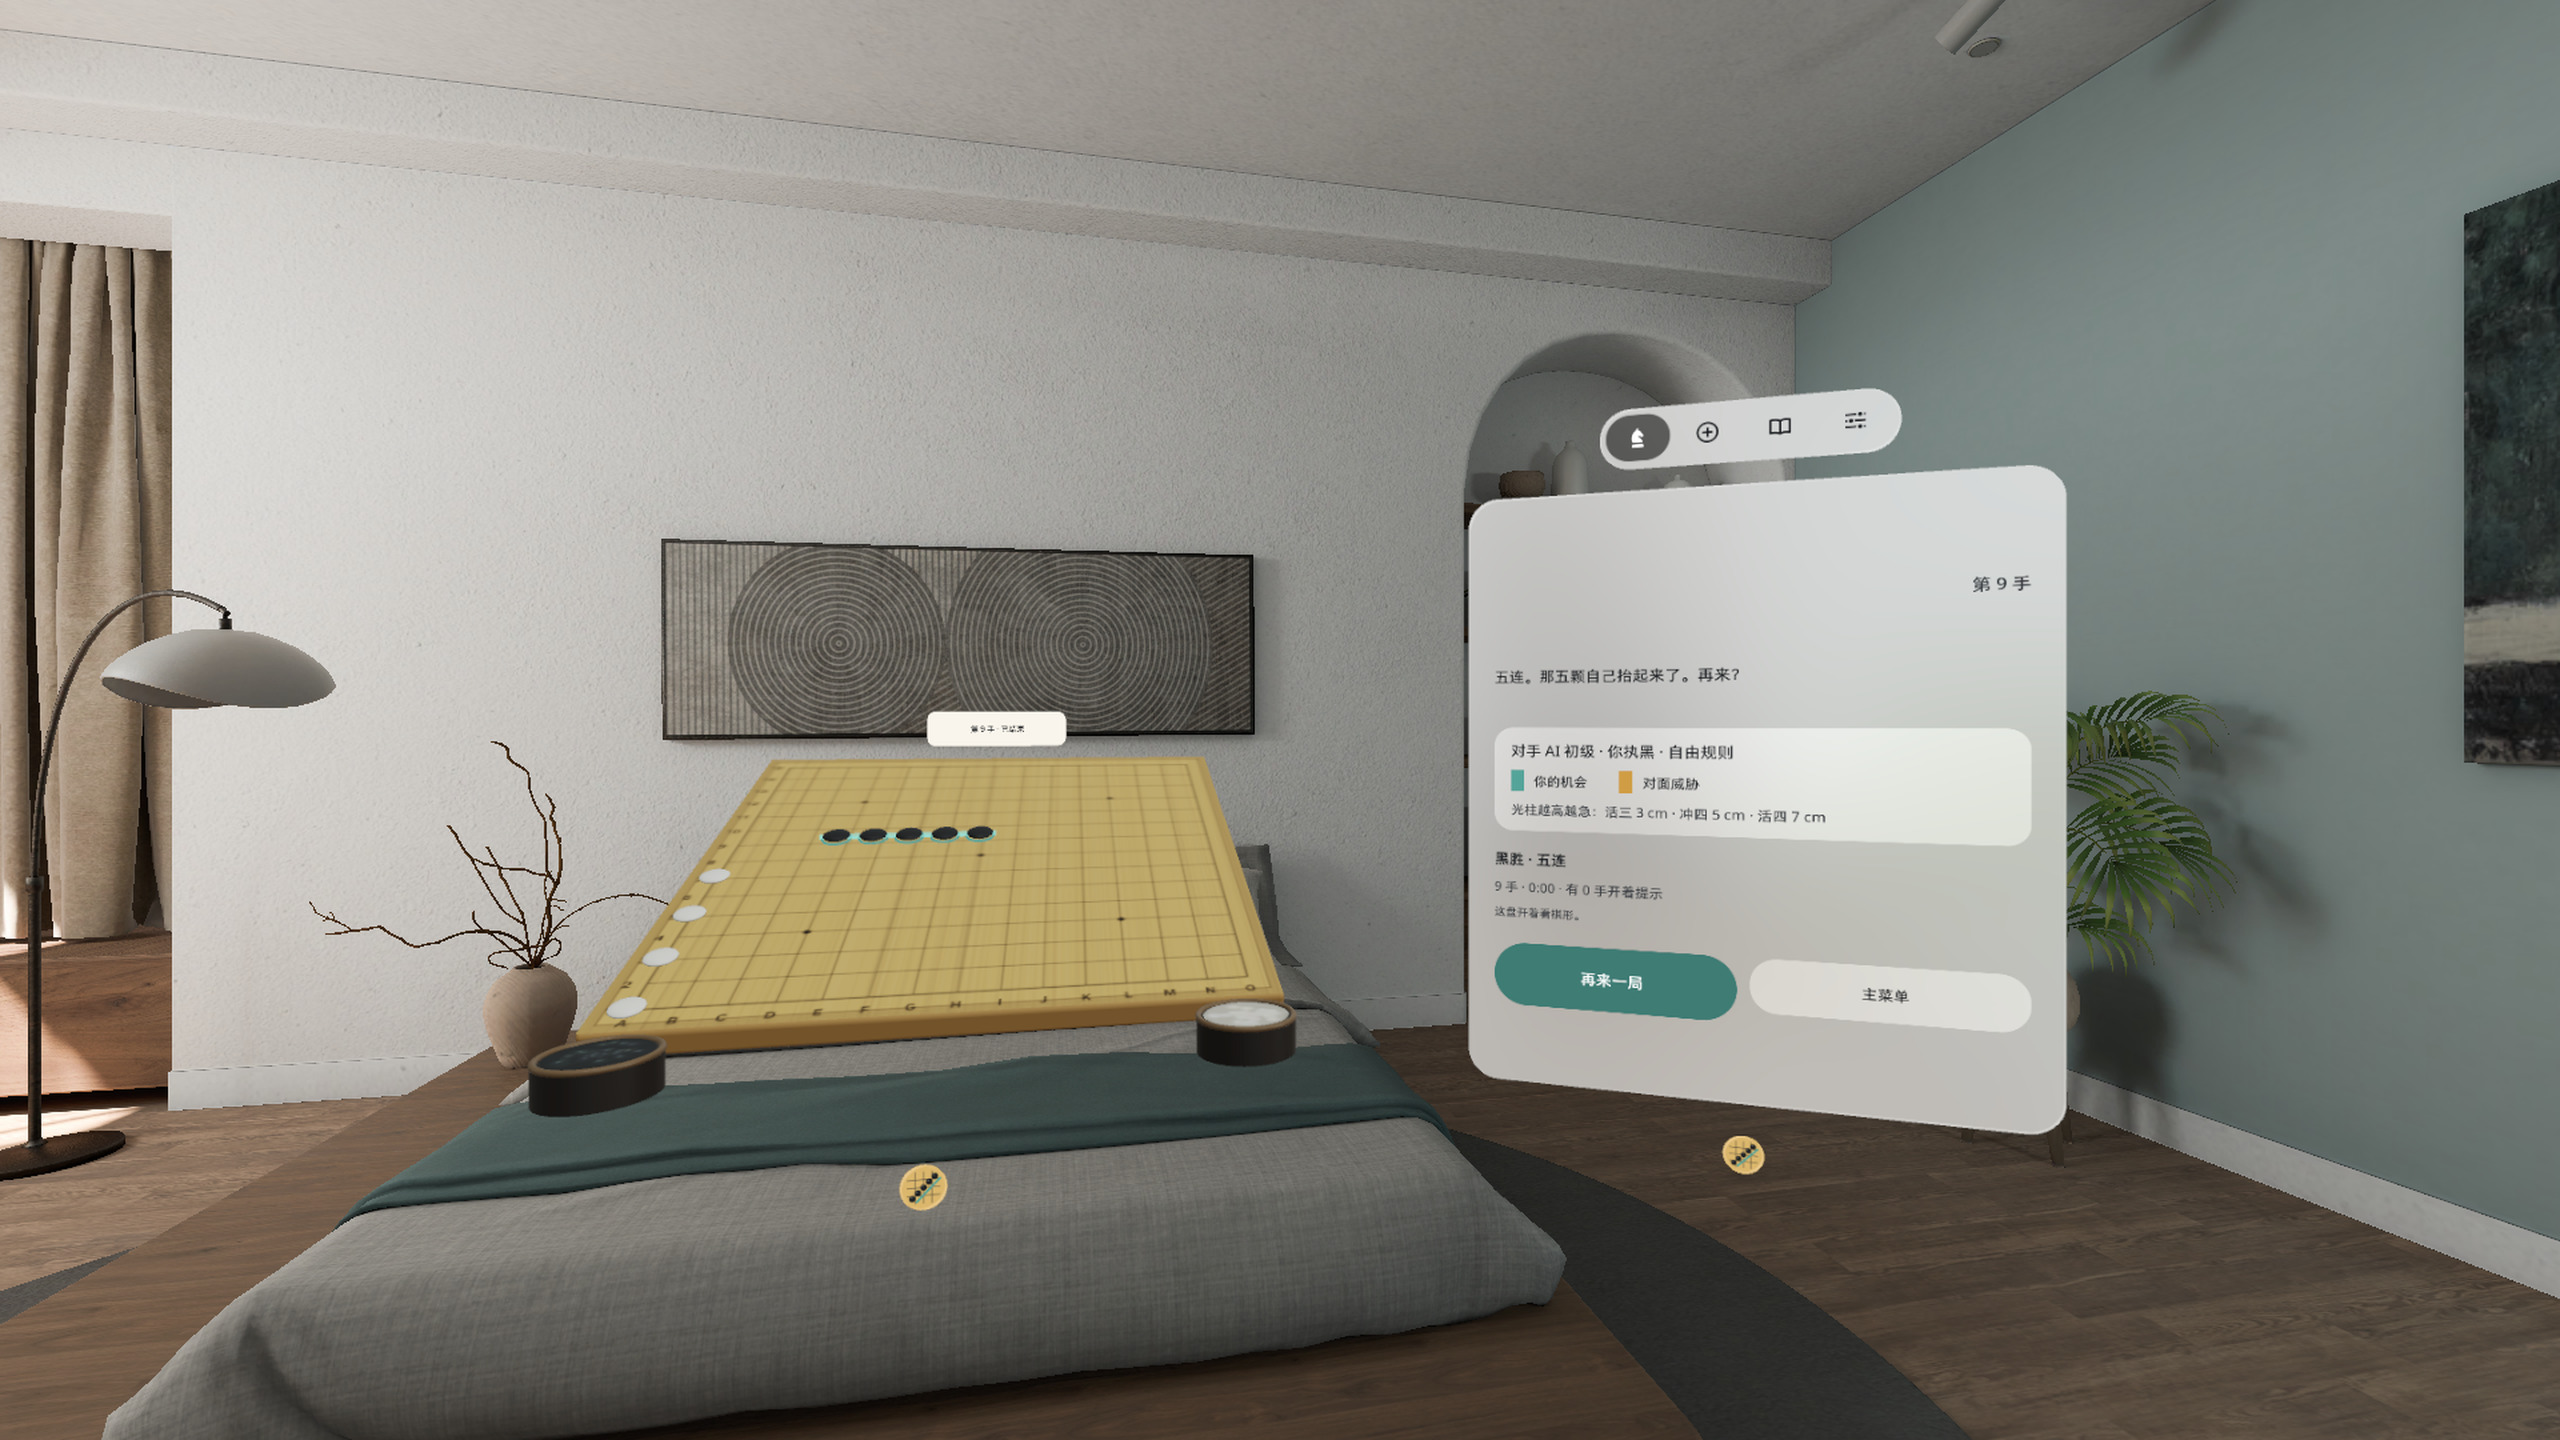
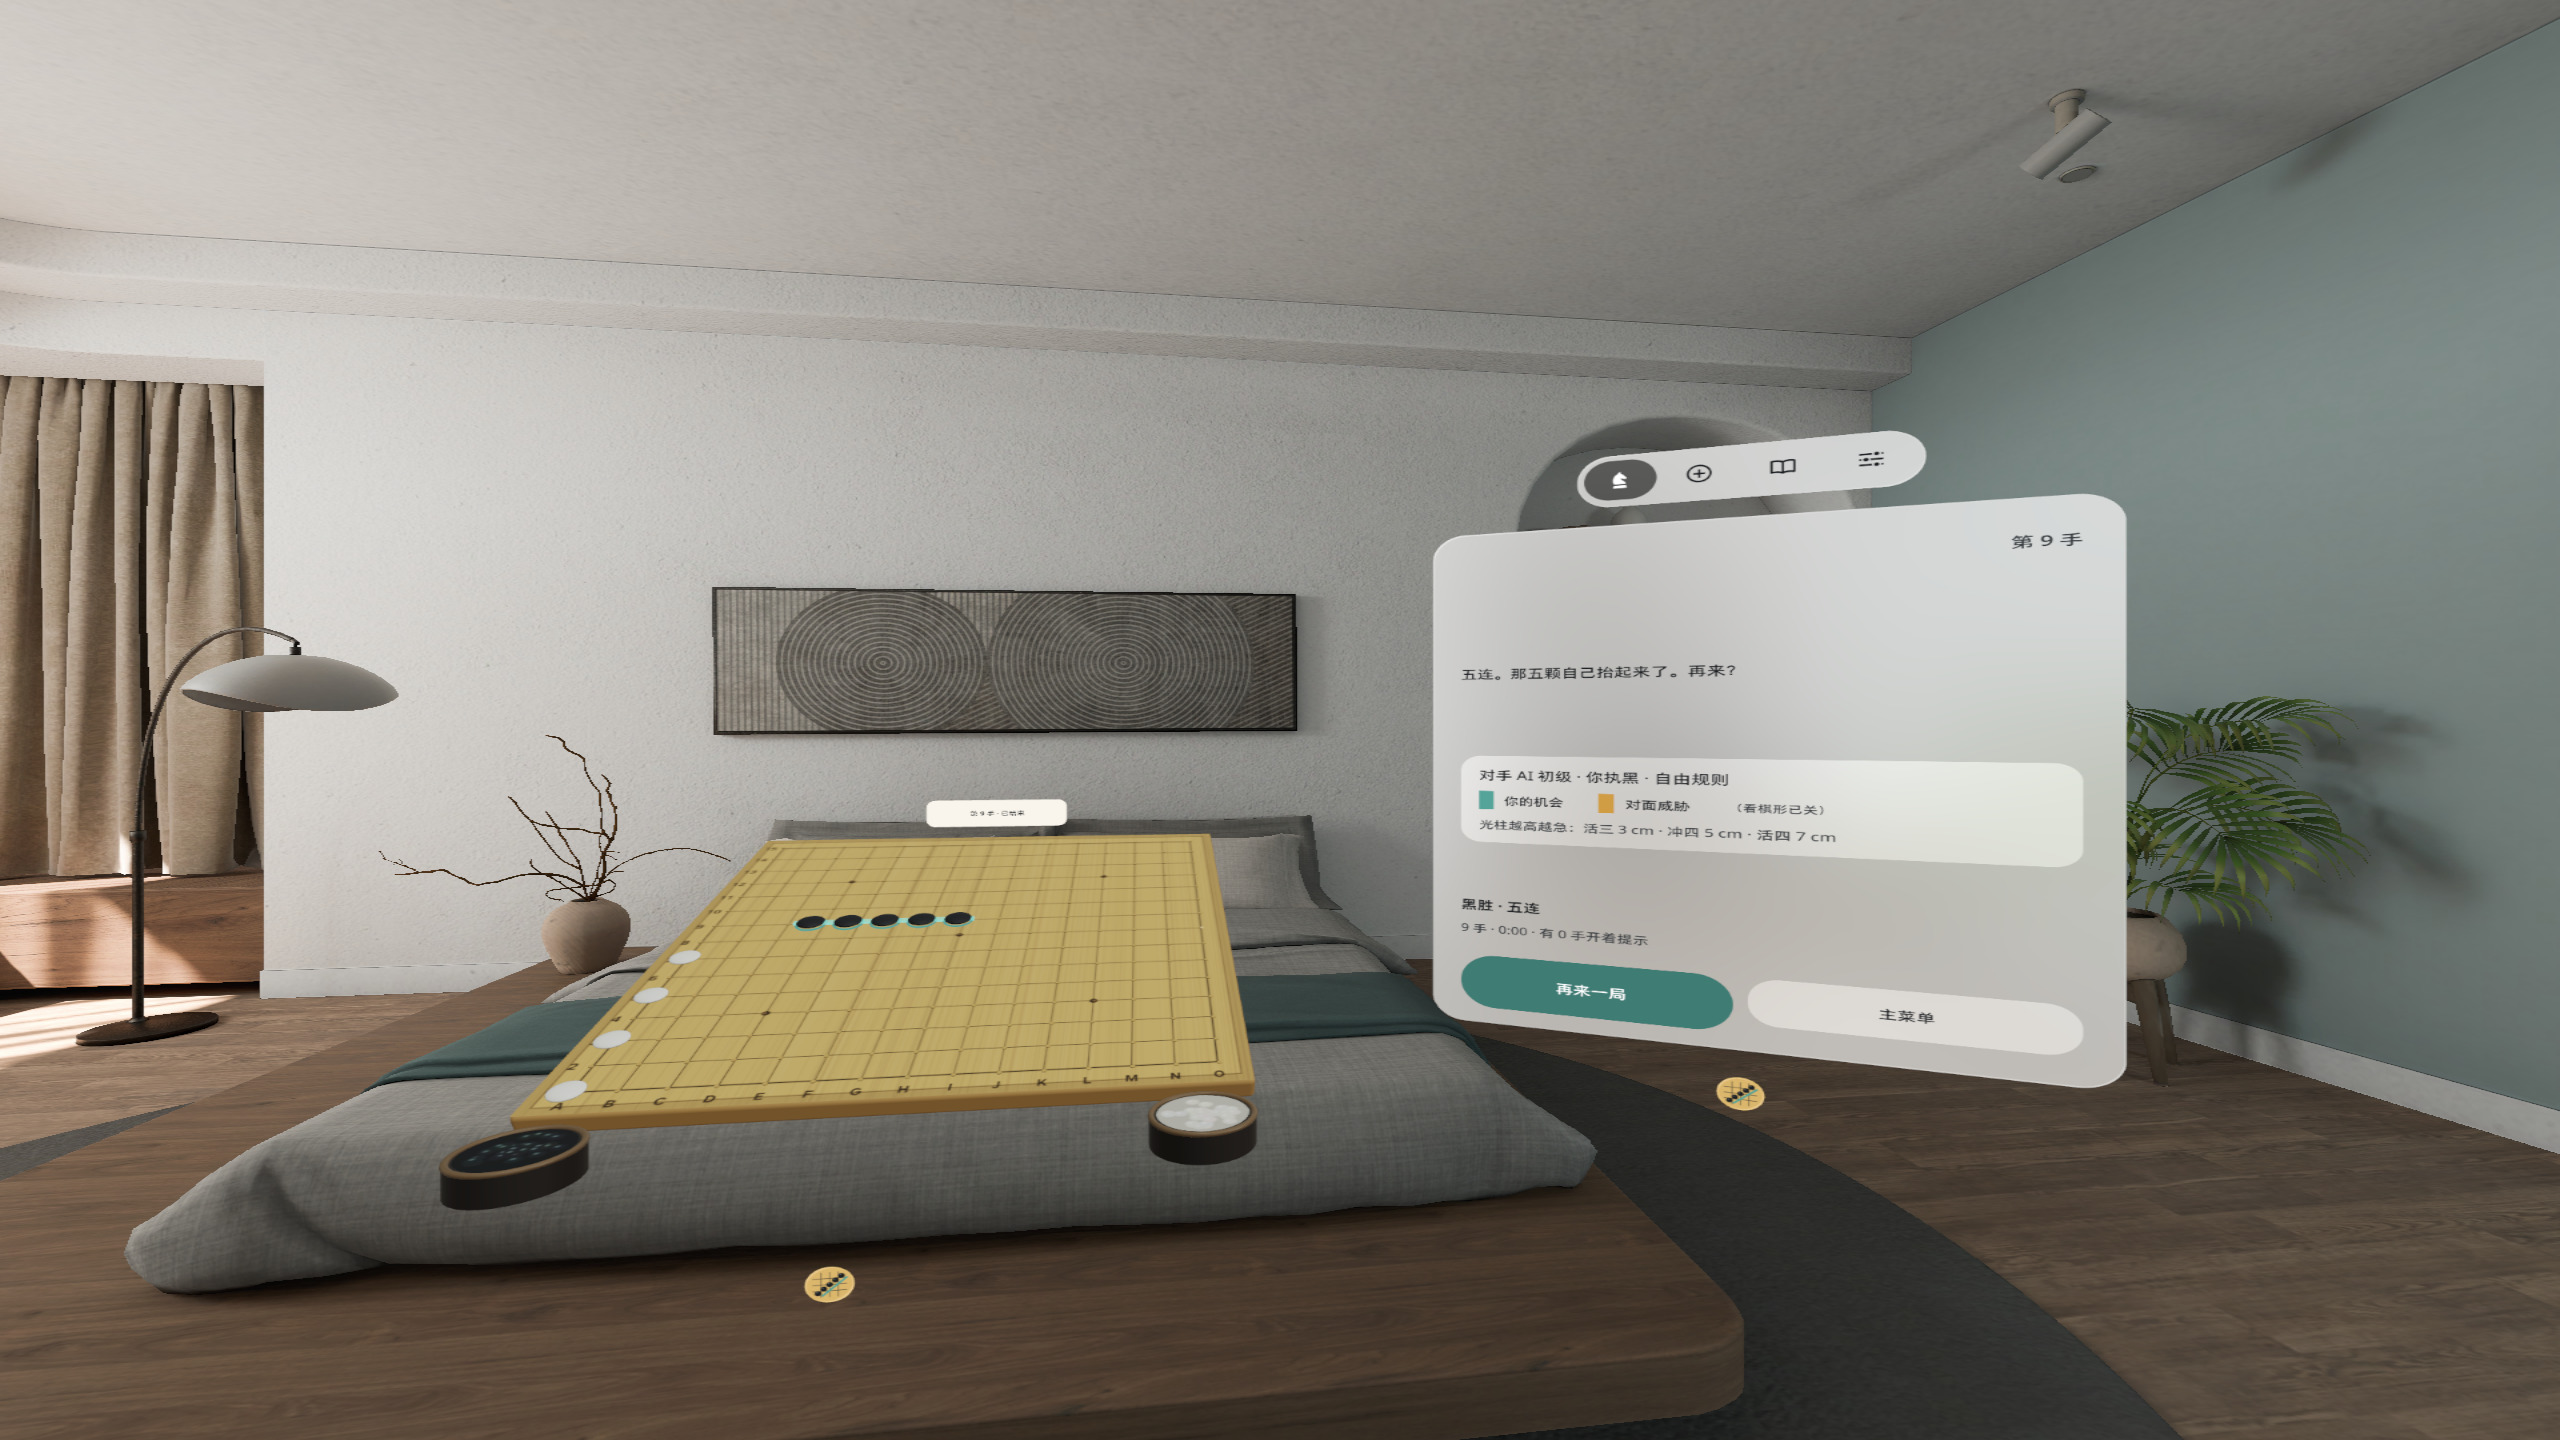
v0.1.5: bilingual README and screenshots for the patch release

diff --git a/README.md b/README.md
@@ -4,16 +4,17 @@
 
 **中文** · [English](#english)
 
-一张 0.70 米的 15 路榧木棋盘摆在你面前的桌上，左右两罐云子。看向哪个交叉点，那里就出现一颗半透明的虚子；捏一下，棋子从罐里沿弧线飞过去落下。五颗连上，那五颗一起抬起来发光。
+一张 0.70 米的 15 路榧木棋盘摆在你面前的桌上，左右两罐云子。每个交叉点都有一颗 5 毫米的小圆点，看向哪个点（或用手、手柄指向），那里就高亮并出现一颗半透明的虚子；捏一下，棋子从罐里沿弧线飞过去「嗒」地落下。五颗连上，那五颗一起抬起来发光。
 
 - 人机对战：入门 / 初级 / 中级 / 高级 / 大师五档 AI，全部在本机计算；也可以双人同机轮流下
 - 自由规则或禁手（三三、四四、长连，简化判定）随时切换
 - 「看棋形」：活三、冲四、活四在盘上立起高低不同的光柱，青色是你的机会，琥珀色是对面的威胁
 - 落子后 0.5 秒内再点一下可撤回，另有悔一步、给个提示
-- 控制窗是系统原生页签：对局 / 新局 / 规则 / 设置；棋盘倾角、大小可调；中途退出自动保存
-- 手势捏合 + 手柄射线；中英双语；全部离线，不联网、不需要账号
+- 控制窗是系统原生页签：对局 / 新局 / 规则 / 设置；棋盘倾角 0° / 20° / 30° / 45° / 60° / 90° 六档、大小 100% / 110% 可调；中途退出自动保存
+- 落子声是真实的石子落木录音（CC0），清脆不吵
+- 眼手、手势射线、手柄射线三种输入；中英双语；全部离线，不联网、不需要账号
 
-当前版本 **v0.1.3**，PICO OS 6（Android 15，minSdk 35），PICO Spatial SDK 6.1.9。
+当前版本 **v0.1.5**，PICO OS 6（Android 15，minSdk 35），PICO Spatial SDK 6.1.9。
 
 ### 截图
 
@@ -21,20 +22,20 @@
 
 | | |
 |---|---|
-| ![](docs/shot-01.jpg) 中级 AI 在想，「看棋形」光柱标出双方的活三和冲四 | ![](docs/shot-02.jpg) 对局中：棋盘和右侧的控制窗 |
+| ![](docs/shot-01.jpg) 中级 AI 在想，「看棋形」光柱标出双方的活三和冲四 | ![](docs/shot-02.jpg) 看哪儿落哪儿：视线停在 F10，出现半透明虚子 |
 | ![](docs/shot-03.jpg) 禁手开着：黑棋点在三三点上，红 ✕ 提示原因 | ![](docs/shot-04.jpg) 五连：五颗棋子抬起发光，再来一局 |
-| ![](docs/shot-05.jpg) 新局：人机 / 双人、执子、五档难度、规则 | ![](docs/shot-06.jpg) 规则 · 怎么下：小棋盘图示棋形 |
+| ![](docs/shot-05.jpg) 新局：人机 / 双人、执子、五档难度、规则 | ![](docs/shot-06.jpg) 设置：棋盘倾角六档（图为 45°） |
 
 ### 安装
 
 从 [Releases](https://github.com/kejing-dev/FiveStones/releases) 下载 APK，接上头显后：
 
 ```bash
-adb install -r FiveStones-v0.1.3-debug.apk
+adb install -r FiveStones-v0.1.5-debug.apk
 pico-cli app launch io.embodit.fivestones
 ```
 
-Release 里另有 `FiveStones-v0.1.3.apk`（`assembleRelease` 未签名包，给应用商店上架用，需要先签名才能 `adb install`）。
+Release 里另有 `FiveStones-v0.1.5.apk`（`assembleRelease` 未签名包，给应用商店上架用，需要先签名才能 `adb install`）。
 
 ### 自己构建
 
@@ -45,13 +46,19 @@ export JAVA_HOME=<JDK 17+>
 
 结构、调试广播和状态清单见 [AGENTS.md](AGENTS.md)。
 
-### 已知问题（v0.1.3）
+### v0.1.5 相对 v0.1.3 的变化
 
-- 规则页、认输确认页内容偏少，窗内空白偏大
+- 225 个交叉点都有 5 毫米小圆点（只比盘面高半档），眼手 / 手 / 手柄指到哪个点，系统高亮就落在哪，捏一下就下在那里
+- 落子声换成干净的 CC0 石子落木录音（降噪，只留 120 Hz–6 kHz，不加厚不加余响）
+- 棋盘倾角六档 0° / 20° / 30° / 45° / 60° / 90°，竖起时棋盘稍架高，两罐不挡近边
+- 规则页、认输确认页不再留大块空白
+
+### 已知问题（v0.1.5）
+
+- 落子声偏轻（为了干净没做压缩）
 - AI 高级档对中级档的强度差距偏小（不同随机种子下胜率约 50–80%）
 - 大师档每手约需 2 秒
-- 控制窗首次打开时，约三分之一的几率落在模拟器视野外（真机上未观察到）
-- 手数牌上的字偏小
+- 控制窗首次打开时，偶尔落在模拟器视野外（真机上未观察到）
 
 ---
 
@@ -59,8 +66,9 @@ export JAVA_HOME=<JDK 17+>
 
 ## English
 
-A 0.70 m, 15 × 15 kaya board sits on the table in front of you with a bowl of stones on each side. Look at a point
-and a translucent ghost stone appears there; pinch, and a stone flies from the bowl and lands. When five line up,
+A 0.70 m, 15 × 15 kaya board sits on the table in front of you with a bowl of stones on each side. Every point has
+a 5 mm marker; look at a point (or aim your hand or controller) and it highlights with a translucent ghost stone;
+pinch, and a stone flies from the bowl and lands with a click. When five line up,
 those five lift and glow.
 
 - Play the AI at five levels (Starter / Easy / Medium / Hard / Master, all on-device) or two players on one headset
@@ -68,25 +76,34 @@ those five lift and glow.
 - **Shapes**: open threes, fours and open fours raise light pillars of different heights on the board, teal for
   your chances and amber for your opponent's threats
 - Tap the same stone within 0.5 s to take it back; undo and hint buttons
-- Control window uses the native system tab bar (Play / New game / Rules / Settings); board tilt and size are
-  adjustable; the game saves itself when you leave
-- Hand pinch and controller ray; Chinese and English; fully offline, no account
+- Control window uses the native system tab bar (Play / New game / Rules / Settings); six board tilts (0° / 20° /
+  30° / 45° / 60° / 90°) and two sizes; the game saves itself when you leave
+- Stone sounds are real CC0 recordings of stones on wood
+- Gaze + pinch, hand ray and controller ray; Chinese and English; fully offline, no account
 
-Current version **v0.1.3**, PICO OS 6 (Android 15, minSdk 35), PICO Spatial SDK 6.1.9.
+Current version **v0.1.5**, PICO OS 6 (Android 15, minSdk 35), PICO Spatial SDK 6.1.9.
 
 Screenshots and the demo video were captured in the PICO emulator, driven by debug broadcasts: **not a recording of
 real hand gestures**.
+
+![Five Stones](docs/poster-en.jpg)
+
+| | |
+|---|---|
+| ![](docs/shot-en-01.jpg) Medium AI thinking; Shapes pillars mark both sides' threes and fours | ![](docs/shot-en-02.jpg) Aim and place: gaze rests on F10 and a ghost stone appears |
+| ![](docs/shot-en-03.jpg) Forbidden moves on: Black on a double-three point gets a red ✕ and the reason | ![](docs/shot-en-04.jpg) Five in a row: the five stones lift and glow |
+| ![](docs/shot-en-05.jpg) New game: vs AI or two players, colour, five levels, rules | ![](docs/shot-en-06.jpg) Settings: six board tilts (45° shown) |
 
 ### Install
 
 Download the APK from [Releases](https://github.com/kejing-dev/FiveStones/releases), connect the headset, then:
 
 ```bash
-adb install -r FiveStones-v0.1.3-debug.apk
+adb install -r FiveStones-v0.1.5-debug.apk
 pico-cli app launch io.embodit.fivestones
 ```
 
-`FiveStones-v0.1.3.apk` in the release is the unsigned `assembleRelease` build for store submission; sign it before
+`FiveStones-v0.1.5.apk` in the release is the unsigned `assembleRelease` build for store submission; sign it before
 installing with adb.
 
 ### Build
@@ -98,13 +115,20 @@ export JAVA_HOME=<JDK 17+>
 
 See [AGENTS.md](AGENTS.md) for structure, the debug broadcast and the state list.
 
-### Known issues (v0.1.3)
+### What changed since v0.1.3
 
-- The Rules pages and the resign confirmation have little content and a lot of empty space
+- Every point has a 5 mm marker half a step above the board; the system highlight lands where your eyes, hand or
+  controller aim, and a pinch places there
+- Clean CC0 stone-on-wood sounds (denoised, 120 Hz–6 kHz, no added body or reverb)
+- Six board tilts 0° / 20° / 30° / 45° / 60° / 90°; the board lifts slightly when steep so the bowls stay clear
+- The Rules pages and the resign confirmation no longer leave a big empty band
+
+### Known issues (v0.1.5)
+
+- Stone sounds are quiet (kept clean, no compression)
 - The Hard AI level is only slightly stronger than Medium (about 50–80 % across random seeds)
 - The Master level takes about 2 s per move
-- About one time in three, the control window first opens outside the emulator view (not seen on a headset)
-- The move-count plate text is small
+- The control window sometimes first opens outside the emulator view (not seen on a headset)
 
 ---
 
